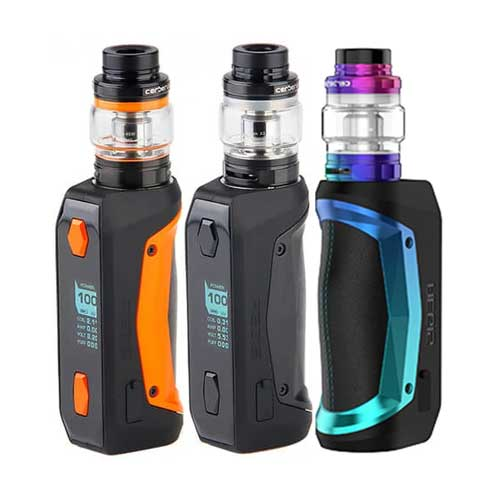
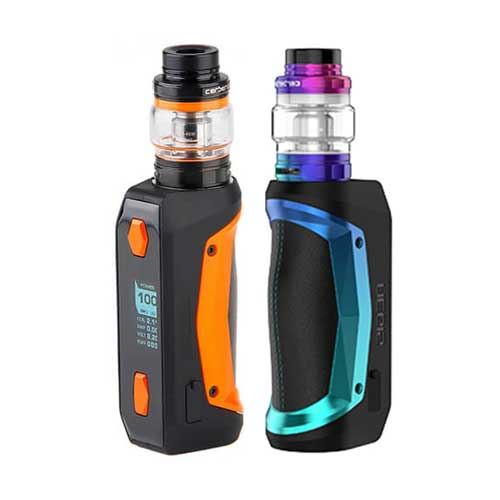
3 new flavors +  kit (color) modifications

diff --git a/starterkits.html b/starterkits.html
@@ -40,8 +40,8 @@
 			</div>
 		</a>			
 			
-		<a class="product-item" onclick="buyHardware(this);" colors="Black/Red,Gold">
-			<figure><img class="product-item-image" src="starterkits/smokgx350.jpg" /></figure>
+		<a class="product-item" onclick="buyHardware(this);" colors="Black/Gold">
+			<figure><img class="product-item-image" src="starterkits/smokgx350.jpg?v=2" /></figure>
 			<label class="product-item-brand">SMOK</label>	
 			<label class="product-item-title">Gx-350</label>
 			<span class="product-item-info">350W • Compact • TempControl • TFV8 CloudBeast • 4x 18560 Required</span>
@@ -63,8 +63,8 @@
 			</div>				
 		</a>
 		
-		<a class="product-item" onclick="buyHardware(this);" colors="Black,Orange,Rainbow">
-			<figure><img class="product-item-image" src="starterkits/geekvapeaegissolo.jpg?v=2" /></figure>
+		<a class="product-item" onclick="buyHardware(this);" colors="Black/Orange,Black/Rainbow">
+			<figure><img class="product-item-image" src="starterkits/geekvapeaegissolo.jpg?v=3" /></figure>
 			<label class="product-item-brand">Geekvape</label>	
 			<label class="product-item-title">Aegis Solo</label>
 			<span class="product-item-info">100W • Extremely Durable • AS Chipset • IP67 Waterproof & Dustproof • Military Grade shockproof • TempControl • Cerberus Tank • 1x 18560 Required</span>
@@ -103,8 +103,8 @@
 			</div>
 		</a>
 		
-		<a class="product-item" onclick="buyHardware(this);" colors="Bronze,Gold,Silver">
-			<figure><img class="product-item-image" src="starterkits/voopoocaliber.jpg" /></figure>
+		<a class="product-item" onclick="buyHardware(this);" colors="Gold,Silver">
+			<figure><img class="product-item-image" src="starterkits/voopoocaliber.jpg?v=2" /></figure>
 			<label class="product-item-brand">Voopoo</label>	
 			<label class="product-item-title">Caliber</label>
 			<span class="product-item-info">110W • GENE.FIT Chip • 3000mah Battery • Ergonomic Design • 304 Stainless • UForce Tank • Adjustable Bottom Airflow</span>

diff --git a/nectars.html b/nectars.html
@@ -140,8 +140,23 @@ function nectarPropChanged(element) {
 			
 		<div id="contentContainer" class="fxDisplay fxWrap fxJustifyCenter">
 
+			<div class="nectar new" props="fruity sweet minty" onclick="buyNectar(this);">
+				<figure><img class="nectarFlask" src="./nectars/doctorhouse.png" /></figure>		
+				<span class="nectarName">Doctor House</span>
+				<span class="nectarInfo">a slightly sweety and minty fushion of honey and lemon!</span>
+			</div>		
+	
+			<div class="nectar new" props="fruity spicy candy minty" onclick="buyNectar(this);">
+				<figure><img class="nectarFlask" src="./nectars/blackfrost.png" /></figure>		
+				<span class="nectarName">Black Frost</span>
+				<span class="nectarInfo">a strong cooling sensation in a candy blackcurrant background!</span>
+			</div>	
 			
-		
+			<div class="nectar new" props="fruity sweet candy" onclick="buyNectar(this);">
+				<figure><img class="nectarFlask" src="./nectars/chillyblues.png" /></figure>		
+				<span class="nectarName">Chilly Blues</span>
+				<span class="nectarInfo">the popular summer iced drink, the blue raspberry slushie!</span>
+			</div>		
 			
 			<div class="nectar new" props="fruity spicy sweet beverage minty" onclick="buyNectar(this);">
 				<figure><img class="nectarFlask" src="./nectars/mojitomasters.png" /></figure>		
@@ -154,8 +169,7 @@ function nectarPropChanged(element) {
 				<span class="nectarName">Summer Vines</span>
 				<span class="nectarInfo">it's time to vape frosty watermelons, straight outta the fridge!</span>
 			</div>	
-			
-			
+				
 			<div class="nectar" props="" onclick="buyNectar(this);">
 				<figure><img class="nectarFlask" src="./nectars/unflavored.png" /></figure>		
 				<span class="nectarName">Unflavored</span>

diff --git a/home.html b/home.html
@@ -98,7 +98,8 @@
 
 
 <div class="elementRotator fxFixed">
-<div class="current" style="background-image:url(stylesheets/slideshows/freedelivery.jpg)"></div>
+<div class="current" style="background-image:url(stylesheets/slideshows/summernectars.jpg)" onclick="preloadContent('nectars')" ></div>
+<div style="background-image:url(stylesheets/slideshows/freedelivery.jpg?v=2)"></div>
 <div style="background-image:url(stylesheets/slideshows/geekvapeaegissolo.jpg)" onclick="preloadContent('starterkits')"  ></div>
 <div style="background-image:url(stylesheets/slideshows/voopoocaliber.jpg)" onclick="preloadContent('starterkits')" ></div>
 <div style="background-image:url(stylesheets/slideshows/geekvapeaegislegend.jpg)" onclick="preloadContent('starterkits')" ></div>
@@ -172,7 +173,7 @@ elementRotatorNav.append( '<span class="'+(index==0?'current':'')+'" onclick="sl
 		
 		
 	<div class="cat-parent fxDisplay fxWrap fxJustifyCenter">
-		<a class="cat-child" onclick="preloadContent('nectars')"><img src="stylesheets/cats/nectar.svg" />Nectar</a>			
+		<a class="cat-child new" onclick="preloadContent('nectars')"><img src="stylesheets/cats/nectar.svg" />Nectar</a>			
 		<a class="cat-child" onclick="preloadContent('starterkits')"><img src="stylesheets/cats/starterkits.svg" />Starter Kits</a>
 		<a class="cat-child new" onclick="preloadContent('coilheads')"><img src="stylesheets/cats/coilheads.svg" />Coil Heads</a>
 		<a class="cat-child" onclick="preloadContent('glasstubes')"><img src="stylesheets/cats/glasstubes.svg" />Glass Tubes</a>
